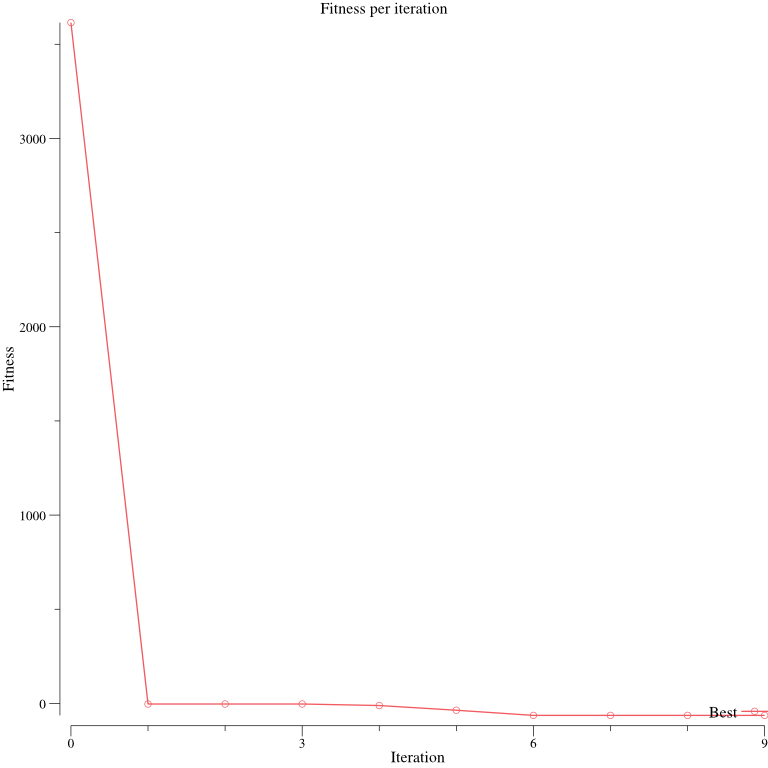
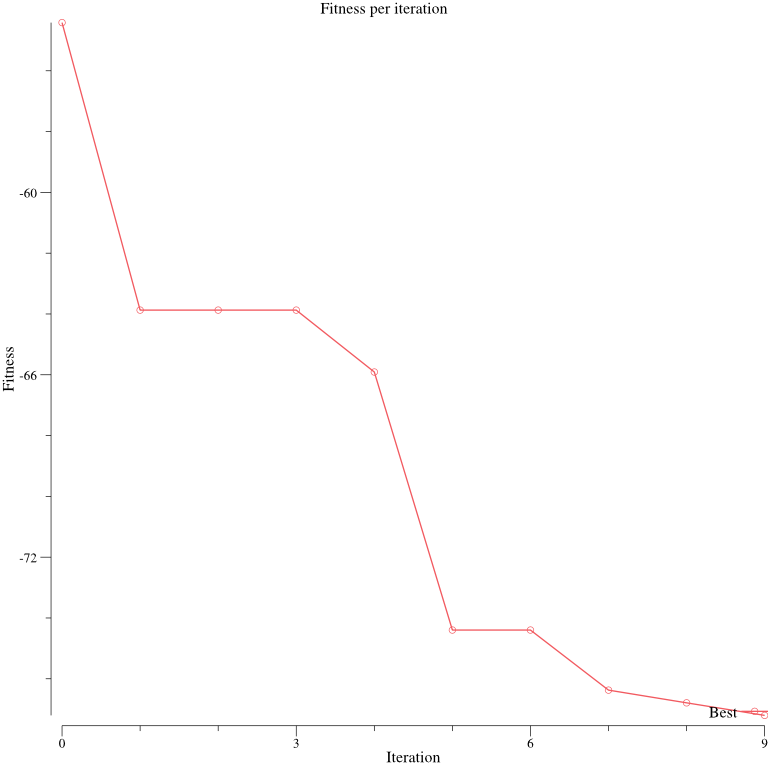
Working muuuuch smoother

diff --git a/tsp/capitals/capitals.go b/tsp/capitals/capitals.go
@@ -9,6 +9,10 @@ import (
 	"strconv"
 
 	"github.com/MaxHalford/gago"
+	"github.com/gonum/plot"
+	"github.com/gonum/plot/plotter"
+	"github.com/gonum/plot/plotutil"
+	"github.com/gonum/plot/vg"
 )
 
 type point struct {
@@ -20,9 +24,8 @@ func euclidian(a, b point) float64 {
 }
 
 var (
-	file     = "capitals.csv"
-	points   = make(map[string]point)
-	distance = euclidian
+	file   = "capitals.csv"
+	points = make(map[string]point)
 )
 
 func init() {
@@ -43,12 +46,28 @@ func init() {
 	}
 }
 
-func totalDistance(trip []string) float64 {
+func distance(trip []string) float64 {
 	var total = 0.0
 	for i := 0; i < len(trip)-1; i++ {
-		total += distance(points[trip[i]], points[trip[i+1]])
+		total += euclidian(points[trip[i]], points[trip[i+1]])
 	}
 	return total
+}
+
+func graph(P []string) {
+	var XY = make(plotter.XYs, len(P))
+	for i, p := range P {
+		// Store the best fitness for plotting
+		XY[i].X = points[p].x
+		XY[i].Y = points[p].y
+	}
+	var p, _ = plot.New()
+	p.Title.Text = "Capitals TSP"
+	plotutil.AddLinePoints(p, "Path", XY)
+	// Save the plot to a PNG file.
+	if err := p.Save(5*vg.Inch, 5*vg.Inch, "capitals.png"); err != nil {
+		panic(err)
+	}
 }
 
 func main() {
@@ -57,23 +76,15 @@ func main() {
 	for name := range points {
 		names = append(names, name)
 	}
-	var ga = gago.Population{
-		NbDemes:       4,
-		NbIndividuals: 30,
-		Initializer:   gago.ISUnique{Corpus: names},
-		Selector:      gago.STournament{NbParticipants: 20},
-		Crossover:     gago.CPMX{},
-		Mutators: []gago.Mutator{
-			gago.MutPermute{Rate: 0.9},
-			gago.MutSplice{Rate: 0.2},
-		},
-		Migrator: gago.MigShuffle{},
-	}
-	ga.Ff = gago.StringFunction{totalDistance}
-	ga.Initialize(len(names))
-
-	for i := 0; i < 2000; i++ {
+	// Create the GA
+	var ga = gago.GATSP(names, distance)
+	ga.Initialize()
+	// Enhance
+	for i := 0; i < 10000; i++ {
 		fmt.Println(ga.Best.Fitness)
 		ga.Enhance()
 	}
+	// Extract the genome of the best individual
+	var points = ga.Best.Genome.CastString()
+	graph(points)
 }

diff --git a/tsp/waldo/waldo.go b/tsp/waldo/waldo.go
@@ -24,9 +24,8 @@ func euclidian(a, b point) float64 {
 }
 
 var (
-	file     = "waldo.csv"
-	points   = make(map[string]point)
-	distance = euclidian
+	file   = "waldo.csv"
+	points = make(map[string]point)
 )
 
 func init() {
@@ -47,10 +46,10 @@ func init() {
 	}
 }
 
-func totalDistance(trip []string) float64 {
+func distance(trip []string) float64 {
 	var total = 0.0
 	for i := 0; i < len(trip)-1; i++ {
-		total += distance(points[trip[i]], points[trip[i+1]])
+		total += euclidian(points[trip[i]], points[trip[i+1]])
 	}
 	return total
 }
@@ -63,7 +62,7 @@ func graph(P []string) {
 		XY[i].Y = points[p].y
 	}
 	var p, _ = plot.New()
-	p.Title.Text = "Grid TSP"
+	p.Title.Text = "Waldo TSP"
 	plotutil.AddLinePoints(p, "Path", XY)
 	// Save the plot to a PNG file.
 	if err := p.Save(5*vg.Inch, 5*vg.Inch, "waldo.png"); err != nil {
@@ -77,29 +76,15 @@ func main() {
 	for name := range points {
 		names = append(names, name)
 	}
-	var ga = gago.Population{
-		NbDemes:       4,
-		NbIndividuals: 30,
-		Initializer:   gago.ISUnique{Corpus: names},
-		Selector:      gago.STournament{NbParticipants: 20},
-		Crossover:     gago.CPMX{},
-		Mutators: []gago.Mutator{
-			gago.MutPermute{Rate: 0.9},
-			gago.MutSplice{Rate: 0.2},
-		},
-		Migrator: gago.MigShuffle{},
-	}
-	ga.Ff = gago.StringFunction{totalDistance}
-	ga.Initialize(len(names))
-
-	for i := 0; i < 1000; i++ {
+	// Create the GA
+	var ga = gago.GATSP(names, distance)
+	ga.Initialize()
+	// Enhance
+	for i := 0; i < 3000; i++ {
 		fmt.Println(ga.Best.Fitness)
 		ga.Enhance()
 	}
-
-	var points = make([]string, len(ga.Best.Genome))
-	for i, gene := range ga.Best.Genome {
-		points[i] = gene.(string)
-	}
+	// Extract the genome of the best individual
+	var points = ga.Best.Genome.CastString()
 	graph(points)
 }

diff --git a/tsp/grid/grid.go b/tsp/grid/grid.go
@@ -22,11 +22,11 @@ func euclidian(a, b point) float64 {
 }
 
 var (
-	size     = 5
-	points   = make(map[string]point)
-	distance = euclidian
+	size   = 5
+	points = make(map[string]point)
 )
 
+// Create the list of possible points on a grid
 func init() {
 	for i := 0; i < size; i++ {
 		for j := 0; j < size; j++ {
@@ -36,10 +36,11 @@ func init() {
 	}
 }
 
-func totalDistance(trip []string) float64 {
+// Calculate the distance for a list of consecutive points
+func distance(trip []string) float64 {
 	var total = 0.0
 	for i := 0; i < len(trip)-1; i++ {
-		total += distance(points[trip[i]], points[trip[i+1]])
+		total += euclidian(points[trip[i]], points[trip[i+1]])
 	}
 	return total
 }
@@ -66,29 +67,15 @@ func main() {
 	for name := range points {
 		names = append(names, name)
 	}
-	var ga = gago.Population{
-		NbDemes:       4,
-		NbIndividuals: 30,
-		Initializer:   gago.ISUnique{Corpus: names},
-		Selector:      gago.STournament{NbParticipants: 20},
-		Crossover:     gago.CPMX{},
-		Mutators: []gago.Mutator{
-			gago.MutPermute{Rate: 0.9},
-			gago.MutSplice{Rate: 0.2},
-		},
-		Migrator: gago.MigShuffle{},
-	}
-	ga.Ff = gago.StringFunction{totalDistance}
-	ga.Initialize(len(names))
-
+	// Create the GA
+	var ga = gago.GATSP(names, distance)
+	ga.Initialize()
+	// Enhance
 	for i := 0; i < 1000; i++ {
 		fmt.Println(ga.Best.Fitness)
 		ga.Enhance()
 	}
-
-	var points = make([]string, len(ga.Best.Genome))
-	for i, gene := range ga.Best.Genome {
-		points[i] = gene.(string)
-	}
+	// Extract the genome of the best individual
+	var points = ga.Best.Genome.CastString()
 	graph(points)
 }

diff --git a/math-functions/shubert/shubert.go b/math-functions/shubert/shubert.go
@@ -20,19 +20,13 @@ func shubert(X []float64) float64 {
 }
 
 func main() {
-	// Instantiate a population
-	ga := gago.Float
-	// Wrap the function
-	ga.Ff = gago.FloatFunction{shubert}
-	// More demes
-	ga.NbDemes = 4
-	// More individual
-	ga.NbIndividuals = 100
-	// Initialize the genetic algorithm with two variables per individual
-	ga.Initialize(2)
+	// Instantiate a GA with 2 variables and the fitness function
+	var ga = gago.GAFloat(2, shubert)
+	ga.Initialize()
 	// Enhancement
-	for i := 0; i < 100; i++ {
-		fmt.Println(ga.Best.Fitness)
+	for i := 0; i < 30; i++ {
 		ga.Enhance()
 	}
+	// Display the best obtained solution
+	fmt.Printf("The best obtained solution is %f\n", ga.Best.Fitness)
 }

diff --git a/plot-fitness/plot.go b/plot-fitness/plot.go
@@ -46,16 +46,13 @@ func graph(best plotter.XYs) {
 }
 
 func main() {
-	// Instantiate a population
-	ga := gago.Float
-	// Wrap the function
-	ga.Ff = gago.FloatFunction{styblinskiTang}
-	// Initialize the genetic algorithm with two variables per individual
-	ga.Initialize(2)
+	// Instantiate a GA with 2 variables and the fitness function
+	var ga = gago.GAFloat(2, styblinskiTang)
+	ga.Initialize()
 	// Number of generations
-	generations := 10
+	var generations = 10
 	// Containers for fitnesses
-	best := make(plotter.XYs, generations)
+	var best = make(plotter.XYs, generations)
 	// Enhancement
 	for i := 0; i < generations; i++ {
 		ga.Enhance()

diff --git a/math-functions/sphere/sphere.go b/math-functions/sphere/sphere.go
@@ -18,15 +18,13 @@ func sphere(X []float64) float64 {
 }
 
 func main() {
-	// Instantiate a population
-	ga := gago.Float
-	// Wrap the function
-	ga.Ff = gago.FloatFunction{sphere}
-	// Initialize the genetic algorithm with two variables per individual
-	ga.Initialize(2)
+	// Instantiate a GA with 2 variables and the fitness function
+	var ga = gago.GAFloat(2, sphere)
+	ga.Initialize()
 	// Enhancement
-	for i := 0; i < 25; i++ {
-		fmt.Println(ga.Best.Fitness)
+	for i := 0; i < 10; i++ {
 		ga.Enhance()
 	}
+	// Display the best obtained solution
+	fmt.Printf("The best obtained solution is %f\n", ga.Best.Fitness)
 }

diff --git a/math-functions/styblinski-tang/styblinski-tang.go b/math-functions/styblinski-tang/styblinski-tang.go
@@ -18,15 +18,13 @@ func styblinskiTang(X []float64) float64 {
 }
 
 func main() {
-	// Instantiate a population
-	ga := gago.Float
-	// Wrap the function
-	ga.Ff = gago.FloatFunction{styblinskiTang}
-	// Initialize the genetic algorithm with two variables per individual
-	ga.Initialize(2)
+	// Instantiate a GA with 2 variables and the fitness function
+	var ga = gago.GAFloat(2, styblinskiTang)
+	ga.Initialize()
 	// Enhancement
 	for i := 0; i < 50; i++ {
-		fmt.Println(ga.Best.Fitness)
 		ga.Enhance()
 	}
+	// Display the best obtained solution
+	fmt.Printf("The best obtained solution is %f\n", ga.Best.Fitness)
 }

diff --git a/math-functions/rastrigin/rastrigin.go b/math-functions/rastrigin/rastrigin.go
@@ -18,15 +18,13 @@ func rastrigin(X []float64) float64 {
 }
 
 func main() {
-	// Instantiate a population
-	ga := gago.Float
-	// Wrap the function
-	ga.Ff = gago.FloatFunction{rastrigin}
-	// Initialize the genetic algorithm with two variables per individual
-	ga.Initialize(2)
+	// Instantiate a GA with 2 variables and the fitness function
+	var ga = gago.GAFloat(2, rastrigin)
+	ga.Initialize()
 	// Enhancement
 	for i := 0; i < 40; i++ {
-		fmt.Println(ga.Best.Fitness)
 		ga.Enhance()
 	}
+	// Display the best obtained solution
+	fmt.Printf("The best obtained solution is %f\n", ga.Best.Fitness)
 }

diff --git a/math-functions/drop-wave/drop-wave.go b/math-functions/drop-wave/drop-wave.go
@@ -16,15 +16,13 @@ func dropWave(X []float64) float64 {
 }
 
 func main() {
-	// Instantiate a population
-	ga := gago.Float
-	// Wrap the function
-	ga.Ff = gago.FloatFunction{dropWave}
-	// Initialize the genetic algorithm with two variables per individual
-	ga.Initialize(2)
+	// Instantiate a GA with 2 variables and the fitness function
+	var ga = gago.GAFloat(2, dropWave)
+	ga.Initialize()
 	// Enhancement
 	for i := 0; i < 30; i++ {
-		fmt.Println(ga.Best.Fitness)
 		ga.Enhance()
 	}
+	// Display the best obtained solution
+	fmt.Printf("The best obtained solution is %f\n", ga.Best.Fitness)
 }

diff --git a/math-functions/griewank/griewank.go b/math-functions/griewank/griewank.go
@@ -22,15 +22,13 @@ func griewank(X []float64) float64 {
 }
 
 func main() {
-	// Instantiate a population
-	ga := gago.Float
-	// Wrap the function
-	ga.Ff = gago.FloatFunction{griewank}
-	// Initialize the genetic algorithm with two variables per individual
-	ga.Initialize(2)
+	// Instantiate a GA with 2 variables and the fitness function
+	var ga = gago.GAFloat(2, griewank)
+	ga.Initialize()
 	// Enhancement
 	for i := 0; i < 50; i++ {
-		fmt.Println(ga.Best.Fitness)
 		ga.Enhance()
 	}
+	// Display the best obtained solution
+	fmt.Printf("The best obtained solution is %f\n", ga.Best.Fitness)
 }

diff --git a/curve-fitting/fit.go b/curve-fitting/fit.go
@@ -35,16 +35,9 @@ func leastSquares(B []float64) float64 {
 }
 
 func main() {
-	// Instantiate a population
-	ga := gago.Float
-	// Wrap the function
-	ga.Ff = gago.FloatFunction{leastSquares}
-	// Number of demes
-	ga.NbDemes = 4
-	// Number of individuals in each deme
-	ga.NbIndividuals = 50
-	// Initialize the genetic algorithm
-	ga.Initialize(3)
+	// Instantiate a GA with 3 variables and the fitness function
+	var ga = gago.GAFloat(3, leastSquares)
+	ga.Initialize()
 	// Enhancement
 	for i := 0; i < 1000; i++ {
 		fmt.Println(ga.Best.Fitness)
